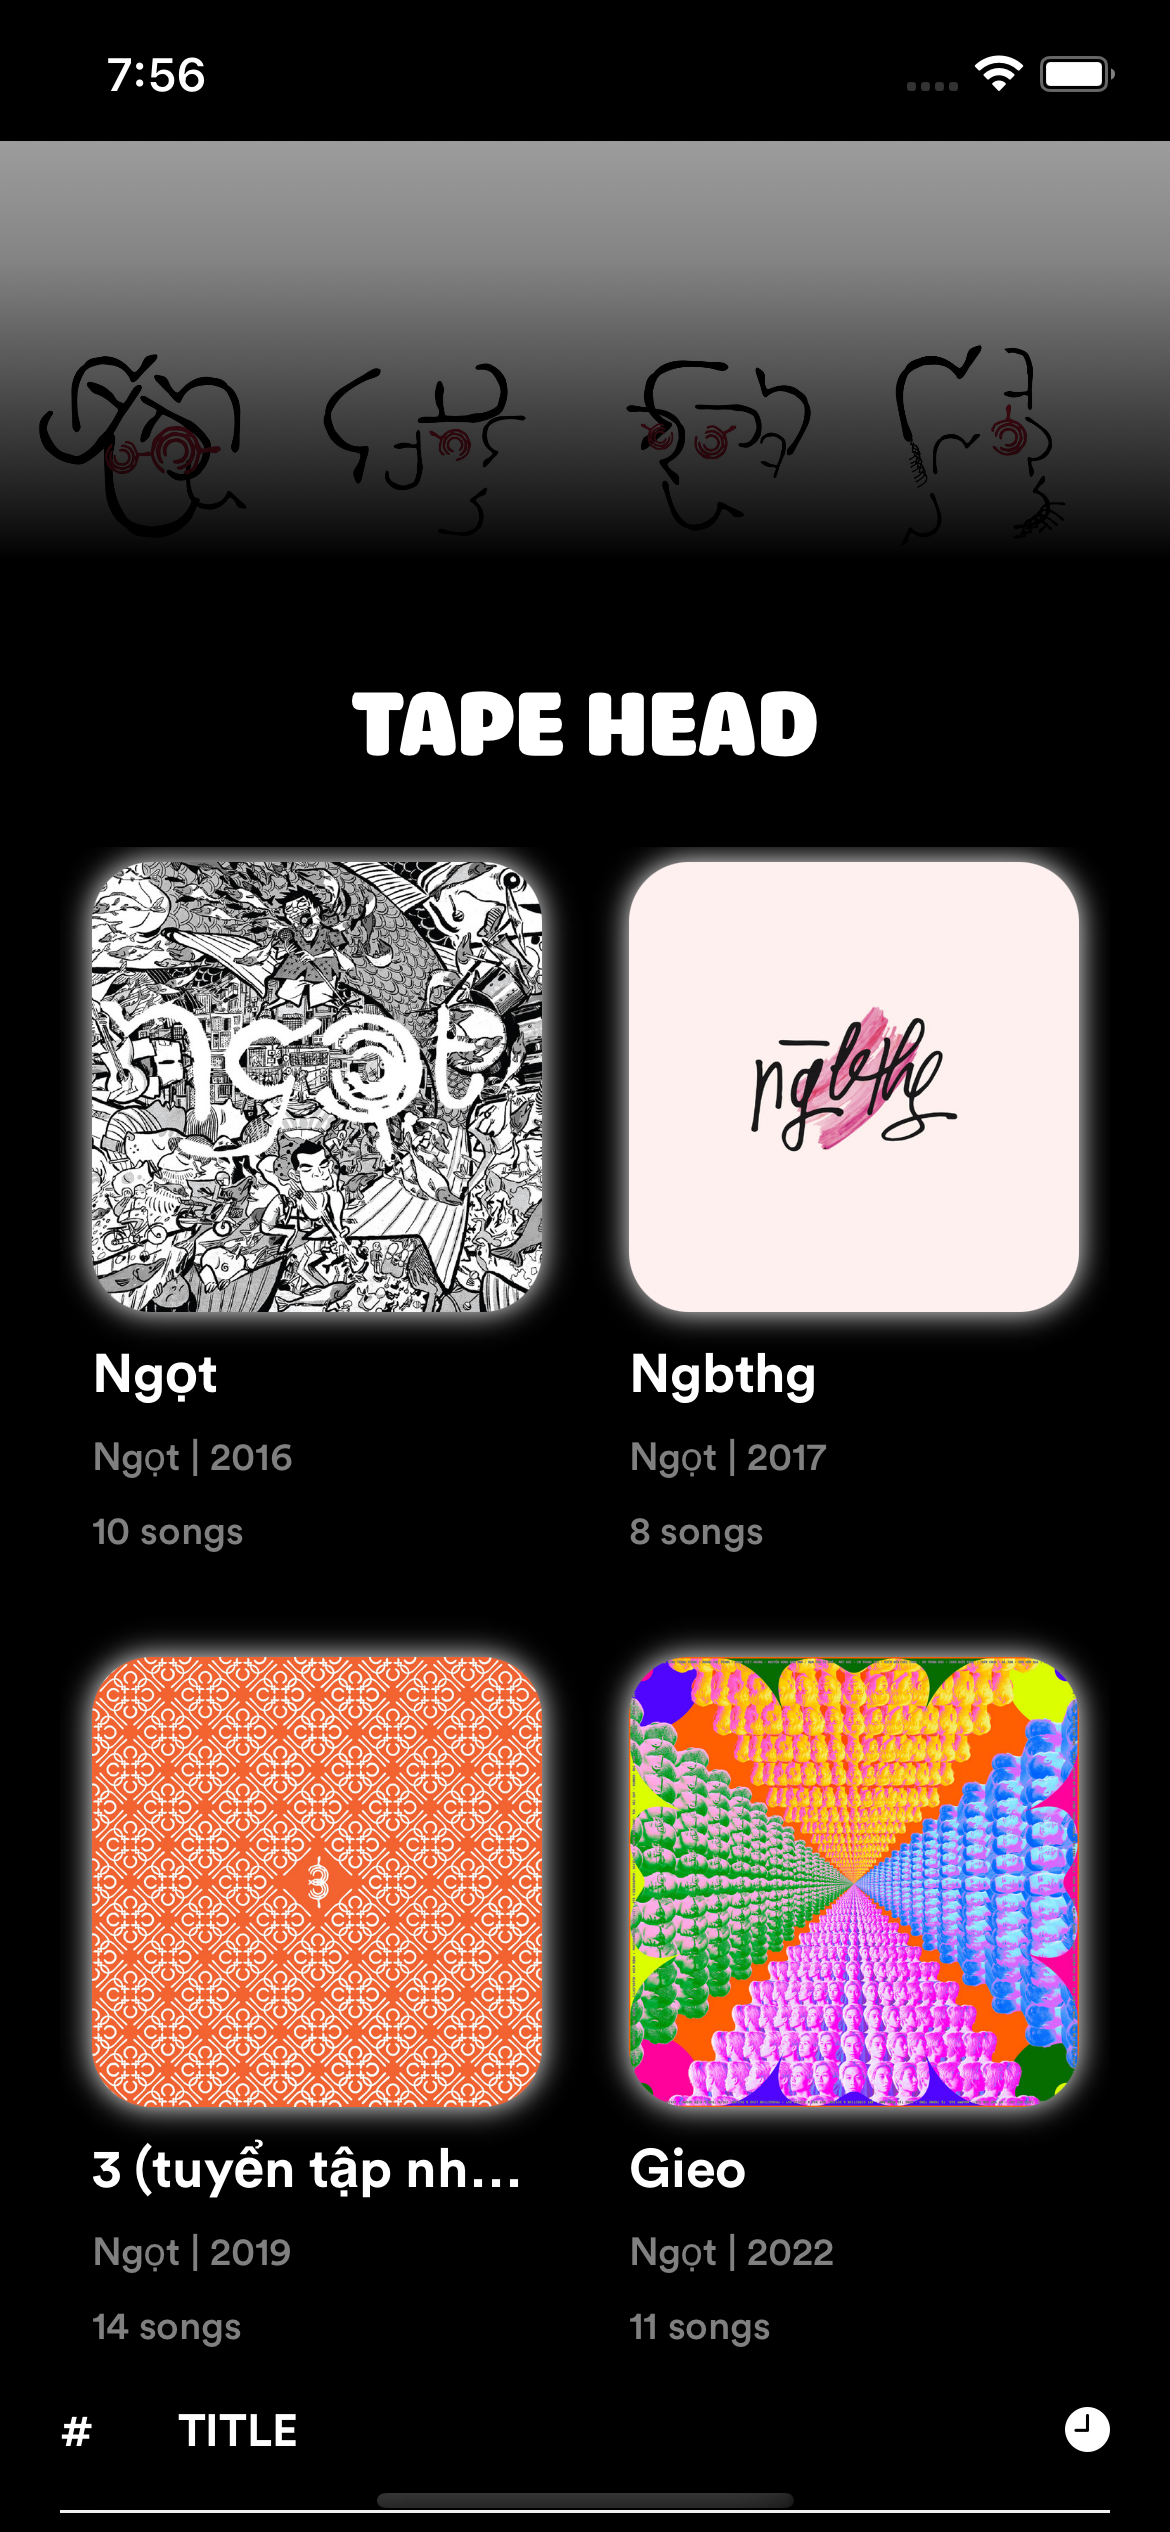
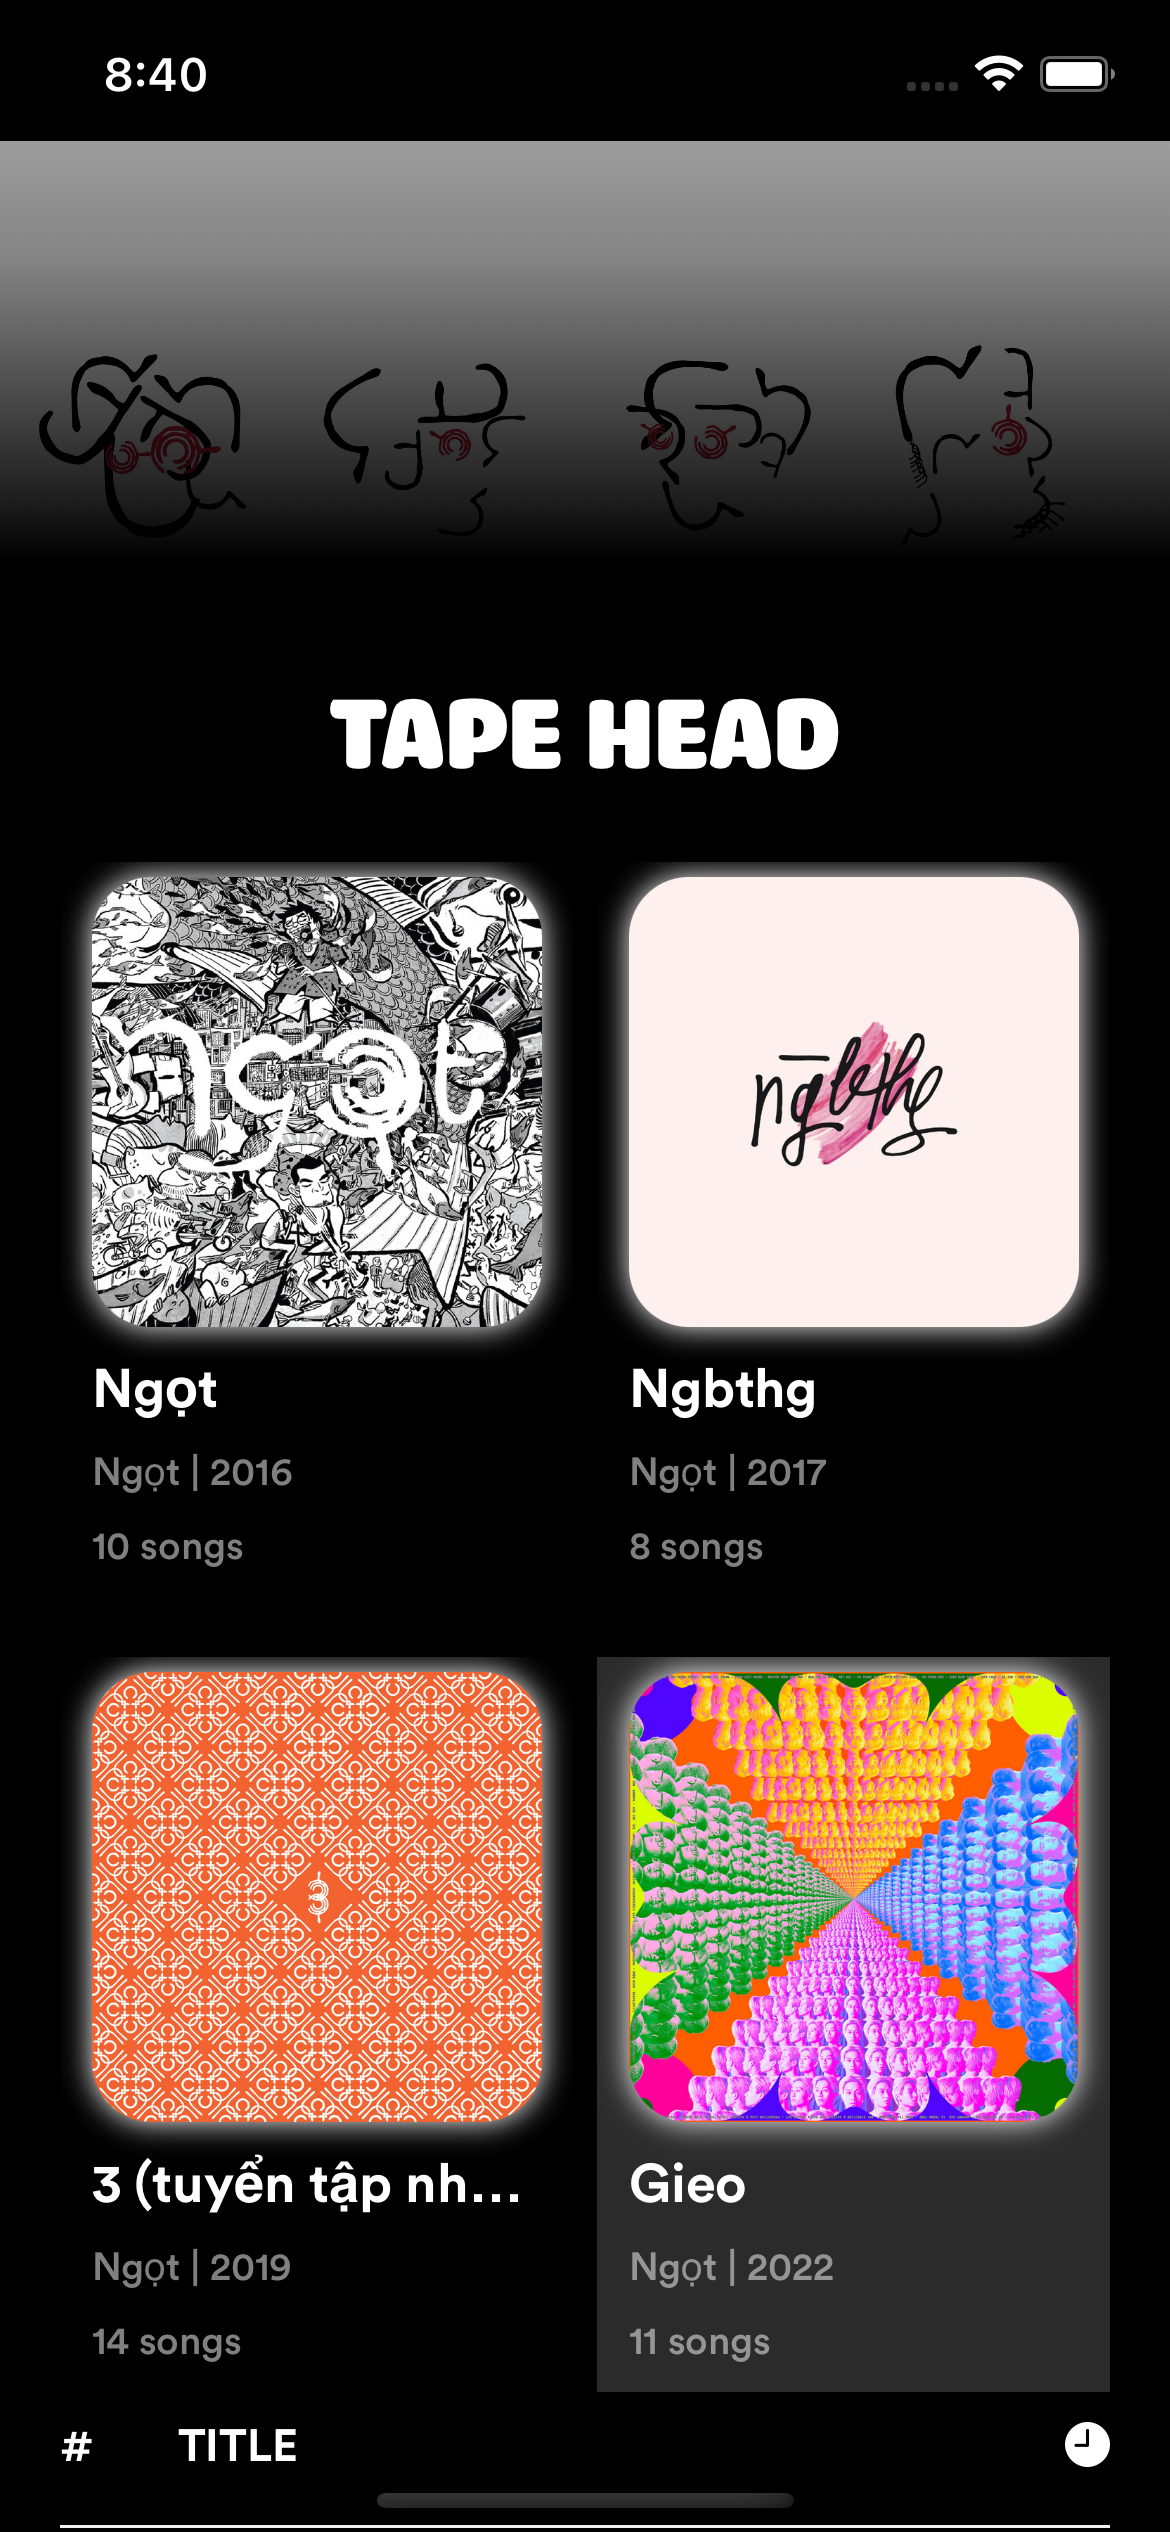
add selected effect on Album

Changed region(s): [[0.0615, 0.2496, 0.9538, 0.9984], [0.0923, 0.0, 0.1538, 0.0312], [0.0615, 0.936, 0.0923, 0.9984]]

diff --git a/TapeHead/ContentView.swift b/TapeHead/ContentView.swift
@@ -93,7 +93,7 @@ struct ContentView: View {
                             }.frame(height: height + safeArea.top)
                             
                             
-                            Text("TAPE HEAD").font(.custom("iCielCadena", size: 32)).foregroundColor(Color.white).padding(.bottom, 15)
+                            Text("TAPE HEAD").font(.custom("iCielCadena", size: 35)).foregroundColor(Color.white).padding(.bottom, 15)
                             
                             ScrollView(showsIndicators: false, content: {
                                 LazyVGrid(columns: [GridItem(.flexible()), GridItem(.flexible())]
@@ -104,6 +104,7 @@ struct ContentView: View {
                                             .onTapGesture {
                                                 self.currentAlbum = album
                                             }
+                                            .background(self.currentAlbum == album ? .gray.opacity(0.3) : Color.black)
                                     })
                                 }
                             }
@@ -185,10 +186,10 @@ struct AlbumArt : View{
                 .foregroundColor(Color.white.opacity(0.5))
                 .frame(width: 150, alignment: .leading)
             Spacer()
-            
         }
-        
+        .cornerRadius(10)
     }
+   
 }
 
 struct SongItem : Identifiable {

diff --git a/TapeHead/PlayerView.swift b/TapeHead/PlayerView.swift
@@ -81,7 +81,6 @@ struct PlayerView : View{
                 
                 VStack{
                     Slider(value: $slider){editing in
-                        
                         player.currentItem?.seek(to: CMTimeMake(value: Int64(slider * Float(song.duration)), timescale: 1))
                         
                     }
